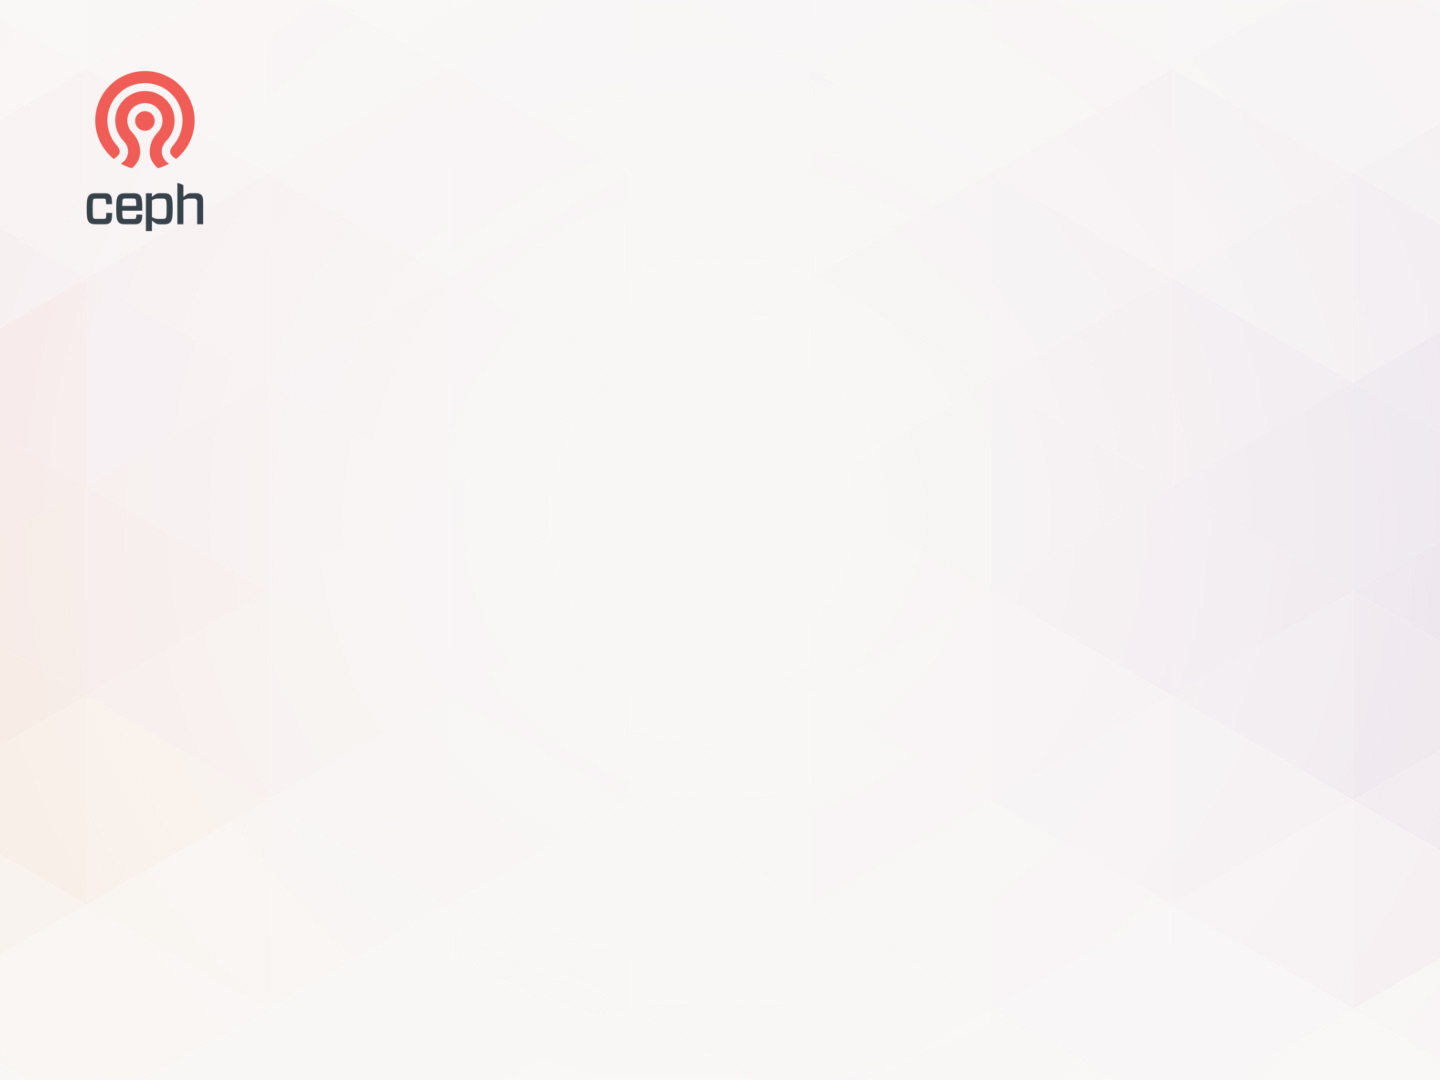
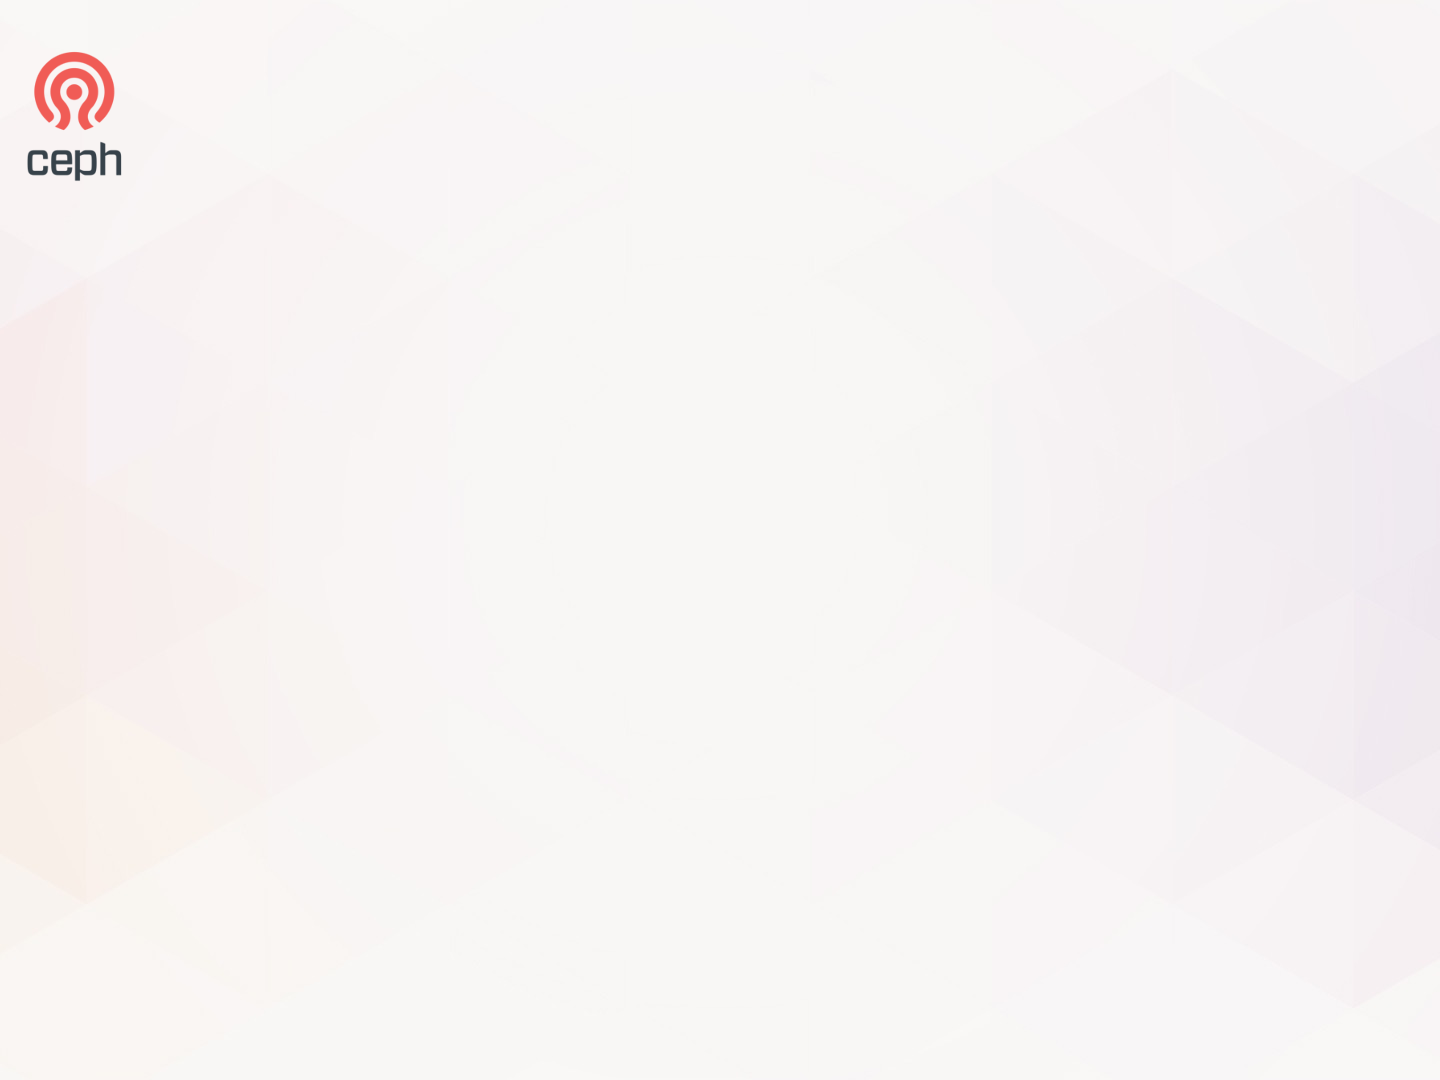
initial scss for 4:3

Changed region(s): [[0.0, 0.0306, 0.1562, 0.2139]]

diff --git a/css/reveal-override.scss b/css/reveal-override.scss
@@ -6,11 +6,11 @@
 
 
 .cover .reveal {
-	margin: 0 !important;
-	padding: 0 !important;
-        background:
-            url(../images/cephaloconAPAC-titlepage_full.png)
-                no-repeat;
+        margin: 0 !important;
+        padding: 0 !important;
+        background: url(../images/cephaloconAPAC-titlepage_4:3.png);
+        background-size: contain !important;
+        background-repeat: no-repeat;
 }
 
 .reveal {
@@ -18,9 +18,9 @@
     font-weight: normal;
     font-size: 30px;
     color: #555555;
-    background:
-        url(../images/cephaloconAPAC-background.png)
-            no-repeat;
+    background: url(../images/cephaloconAPAC-background_4:3.png);
+    background-size: contain !important;
+    background-repeat: no-repeat;
 
     strong {
       color: black;
@@ -42,7 +42,7 @@
     }
 
     section {
-        margin: 2%;
+        margin-left: 3.5%;
     }
 
     /* Make sure keyboard shortcuts help is visible */
@@ -62,14 +62,14 @@
     }
 
     h1 {
-        font-size: 2.6em;
+        font-size: 2.0em;
         /* change spacing for Roboto */
-        letter-spacing: -2px;
+        /* letter-spacing: -2px; */
         margin-top: 1rem;
     }
 
     h2 {
-        font-size: 1.6em;
+        font-size: 1.3em;
         margin-top: 1rem;
         margin-bottom: 2rem;
     }
@@ -141,8 +141,9 @@
         box-shadow: none;
         padding: 13px 13px;
         background-color: rgb(237, 237, 237);
-        max-width: 80%;
+        max-width: 85%;
         min-width: 85%;
+	margin-left: 1%;
     }
 
     pre code {
@@ -156,6 +157,7 @@
         max-height: 100%;
         max-width: 100%;
         letter-spacing: 0px !important;
+	margin-left: 2%;
     }
 
     .stamp {
@@ -175,6 +177,8 @@
 
 .reveal .slides {
         text-align: left;
+	margin-left: 5%;
+	margin-top: 4%;
 }
 
 .section-break {
@@ -196,7 +200,7 @@
             }
 
             h1 {
-                font-size: 3em;
+                font-size: 2.7em;
                 font-weight: bold;
                 //text-transform: uppercase !important;
             }

diff --git a/css/reveal-override.css b/css/reveal-override.css
@@ -5,7 +5,9 @@
 .cover .reveal {
   margin: 0 !important;
   padding: 0 !important;
-  background: url(../images/cephaloconAPAC-titlepage_full.png) no-repeat;
+  background: url(../images/cephaloconAPAC-titlepage_4:3.png);
+  background-size: contain !important;
+  background-repeat: no-repeat;
 }
 
 .reveal {
@@ -13,7 +15,9 @@
   font-weight: normal;
   font-size: 30px;
   color: #555555;
-  background: url(../images/cephaloconAPAC-background.png) no-repeat;
+  background: url(../images/cephaloconAPAC-background_4:3.png);
+  background-size: contain !important;
+  background-repeat: no-repeat;
   /* Make sure keyboard shortcuts help is visible */
   /* Blow iframe up to full screen size */
 }
@@ -34,7 +38,7 @@
   max-height: 100%;
 }
 .reveal section {
-  margin: 2%;
+  margin-left: 3.5%;
 }
 .reveal .overlay-help .viewport th, .reveal .overlay-help .viewport td {
   color: white;
@@ -47,13 +51,13 @@
   max-height: 100%;
 }
 .reveal h1 {
-  font-size: 2.6em;
+  font-size: 2.0em;
   /* change spacing for Roboto */
-  letter-spacing: -2px;
+  /* letter-spacing: -2px; */
   margin-top: 1rem;
 }
 .reveal h2 {
-  font-size: 1.6em;
+  font-size: 1.3em;
   margin-top: 1rem;
   margin-bottom: 2rem;
 }
@@ -110,8 +114,9 @@
   box-shadow: none;
   padding: 13px 13px;
   background-color: #ededed;
-  max-width: 80%;
+  max-width: 85%;
   min-width: 85%;
+  margin-left: 1%;
 }
 .reveal pre code {
   font-family: "Source Code Pro", monospace !important;
@@ -124,6 +129,7 @@
   max-height: 100%;
   max-width: 100%;
   letter-spacing: 0px !important;
+  margin-left: 2%;
 }
 .reveal .stamp {
   position: absolute;
@@ -141,6 +147,8 @@
 
 .reveal .slides {
   text-align: left;
+  margin-left: 5%;
+  margin-top: 4%;
 }
 
 .section-break .reveal .slides > section {
@@ -154,7 +162,7 @@
   color: black;
 }
 .section-break .reveal .slides > section h1 {
-  font-size: 3em;
+  font-size: 2.7em;
   font-weight: bold;
 }
 .section-break .reveal .slides > section h2 {

diff --git a/index.html b/index.html
@@ -130,9 +130,6 @@
             center: false,
             fragments: true,
 
-            //width: 1024,
-            //height: 768,
-
             // Parallax background image
             //parallaxBackgroundImage: 'images/background.jpg',
 

diff --git a/markdown/intro.md b/markdown/intro.md
@@ -4,13 +4,13 @@
 <br>
 <br>
 <br>
-## Email Storage
+# Email Storage
 with 
 <br>
-## Ceph
+# Ceph
 
 <br>
-<img src="images/qrcode.png" style="width:15%; left: 93%; position: absolute">
+<img src="images/qrcode.png" style="width:15%; left: 76%; position: absolute">
 Danny Al-Gaaf <br>
 Deutsche Telekom AG
 <br>
